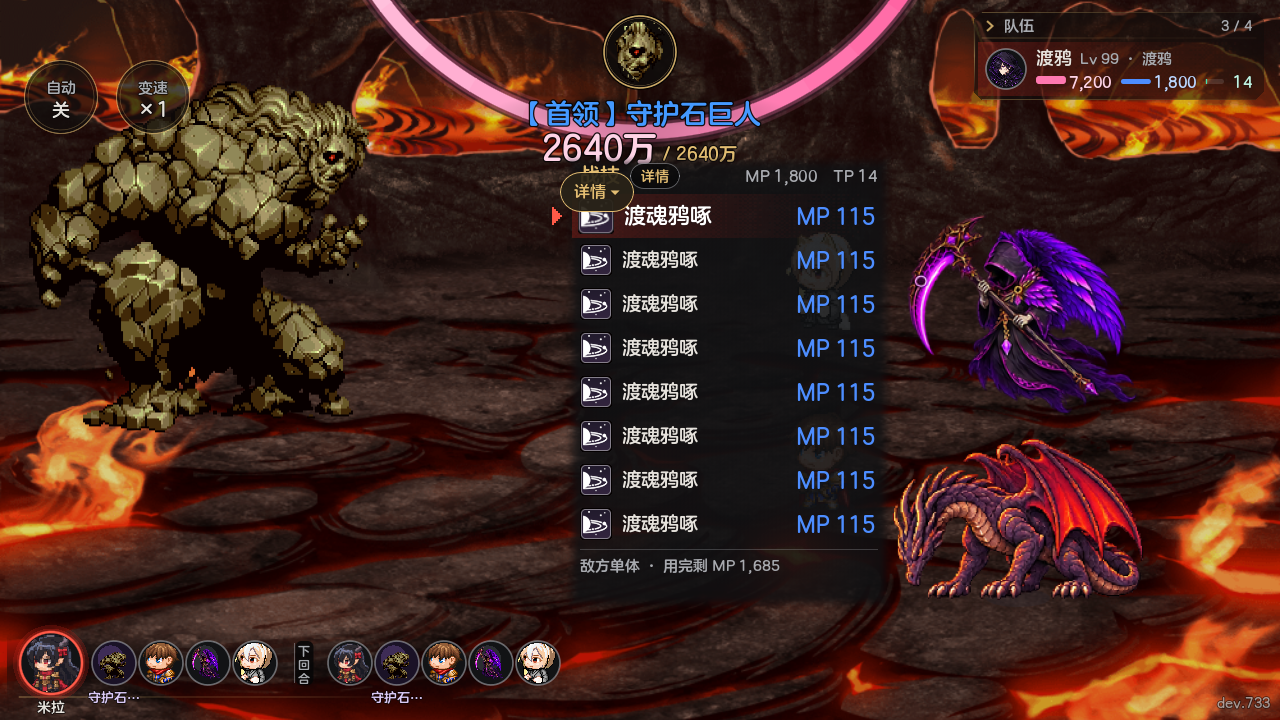
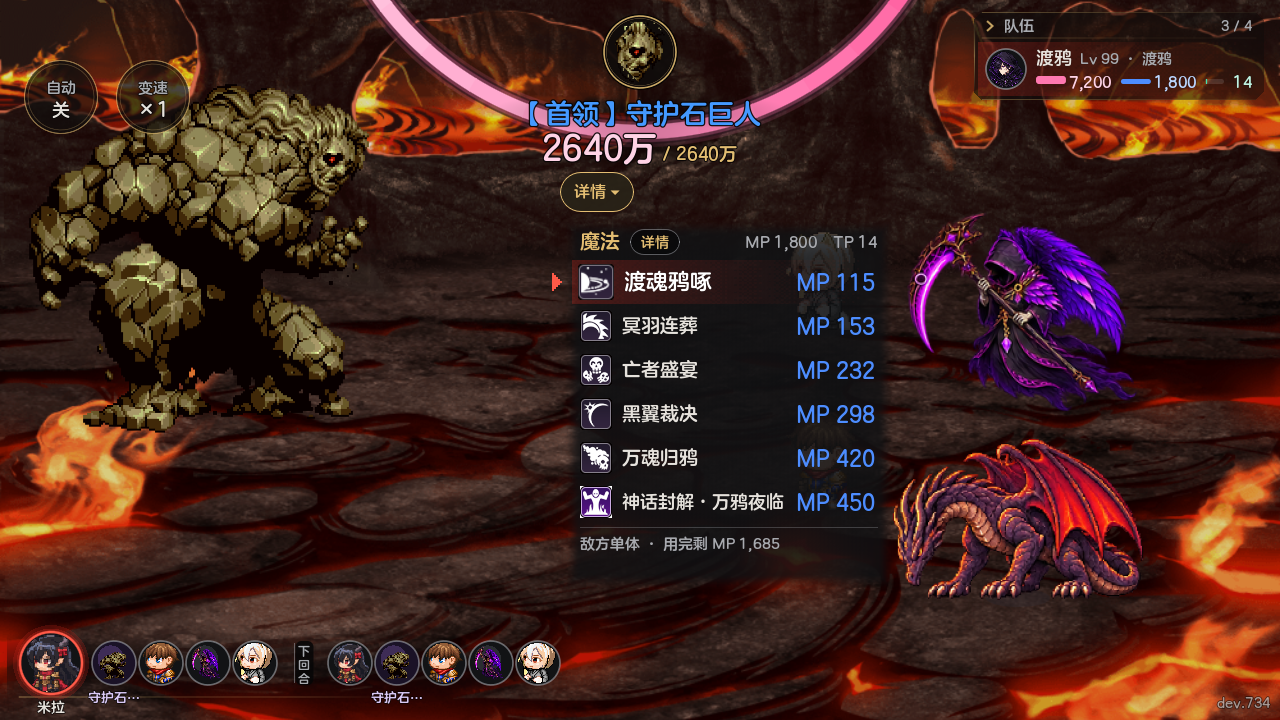
T208 预筛返工：列表让开首领信息区（放不下减行数滚动）；样张改真实技能表重截
执行者: cc
核查: 待审查

diff --git a/00_项目管理/交付/luiluu_t208.md b/00_项目管理/交付/luiluu_t208.md
@@ -8,14 +8,15 @@
 ## 2026-11-18 【cc·天启篇·未经审查】T208 大型变身行动时指令环与战技／物品列表让开身体＋头顶宝石逃跑时不再闪现（dev.待定）
 
 - Kyo 11-18「战斗中指令栏会挡住大型精灵」→「指令栏按A」。`battle_scene.gd` 新增 `make_room_for_big`（在 `_place_near_actor` 新界面那支最后调）：行动者外观键含 `XBattleLayout.BIG_FORM_KEYS` 且 `BIG_FORM_H` 大于普通身高时，指令环（各项＋上方「某某的行动」，加 6px 放大余量）或战技／物品列表若压到其身体可见框（脚底居中、`width()`×`height()`）：① 外侧＝整块左挪到右边离身体 8px（压左下行动顺序条就抬到条上方），指令环另要求不压队友、首领信息区、队伍面板；② 不行就放画面下方中间（贴底、横向居中，压行动顺序条往右让，再压身体就贴身体左边抬到条上方）。普通大小角色一步不挪。回退：`XBattleScene.BIG_MAKE_ROOM = false`。没碰 `battle_layout.gd`。
+- 协调预筛返工：P1-1 列表往左挪后表头被首领信息区「详情」胶囊盖住——列表（外侧、下方中间两档）都要让开首领信息区：顶边压到它下沿以下 8px，底边再碰行动顺序条／画面底就减行数滚动（`XSkinBattleSkillList.fit_rows`，选中行保持可见）。P2-1 样张假数据——专项改用真实技能表（照指令环上技能类指令过滤，取技能最多那类，标题＝指令名），渡鸦满进阶学全真实技能（渡鸦那张标题是「魔法」，她的六招都在魔法类）；两张列表样张重截。P3（列表盖前排两个小队友）照协调不改。
 - 实测 4 人队（狗逍遥、里德、渡鸦神话、米拉黑龙）首领战、小怪战：两只大型变身的外侧都压前排队友，指令环都落到画面下方中间（x 573 起，避开行动顺序条）；只 2 人（狗逍遥＋米拉黑龙）时走外侧。列表走外侧（列表照原摆法本来就盖前排、首领信息区，只躲行动顺序条）。
 - T197 小A P2-2：`turn_marker.gd` 两个开关——`HOLD_WHILE_HIDING`：`set_target(null)` 后等 HIDE_DELAY 那段只许保持或变淡、不许淡入（逃跑成功关窗后不再闪出来，两次行动之间也不闪）；`HIDE_ON_MESSAGE`：战斗消息窗开着（逃跑失败两行等）当作挡住。回退：两个都设 false。
-- 新专项 `tests/xiyou_big_form_menu`（无头 86/86，窗口 90/90）：大型变身指令环、8 行列表不压身体、不出屏、不压行动顺序条；外侧时不压队友、下方中间时贴底；狗逍遥、里德指令环与列表位置跟开关关逐像素相等；开关关时龙身确实被压（咬得住）；触屏跟角色摆法同样不压；宝石菜单开淡出／关淡入照旧；P2-2 等淡出时峰值 ≤0.01、开关关会闪（>0.05，咬得住）；消息窗开着挡住、关掉回来。
+- 新专项 `tests/xiyou_big_form_menu`（无头 102/102，窗口 106/106）：大型变身指令环、真实技能列表不压身体、不出屏、不压行动顺序条，列表不压首领信息区、减行数后选中行可见；外侧时不压队友、下方中间时贴底；狗逍遥、里德指令环与列表位置跟开关关逐像素相等；开关关时龙身确实被压（咬得住）；触屏跟角色摆法同样不压；宝石菜单开淡出／关淡入照旧；P2-2 等淡出时峰值 ≤0.01、开关关会闪（>0.05，咬得住）；消息窗开着挡住、关掉回来。
 - 玩家可见：米拉黑龙、渡鸦神话行动时，指令菜单和技能列表不再盖住它们的身体（挪到旁边或画面下方中间）；逃跑时角色头顶的红宝石不再闪一下。
 
 ## 交接板
 
-- 下一步：协调把附图两张（`luiluu_t208附图/T208_首领战_米拉黑龙行动_指令环.png`、`…渡鸦神话行动_指令环.png`，1280×720 原尺寸）给 Kyo 审样；另两张战技列表展开图供参考。
+- 下一步：（列表两张已按预筛 P1-1、P2-1 重截）协调把附图两张（`luiluu_t208附图/T208_首领战_米拉黑龙行动_指令环.png`、`…渡鸦神话行动_指令环.png`，1280×720 原尺寸）给 Kyo 审样；另两张战技列表展开图供参考。
 - 用户试玩说明：天启篇米拉黑龙／渡鸦神话变身后轮到它行动，看指令环是不是不再压身体。
 - 需要用户决定：无（4 人满队时两只大型变身的指令环都落到下方中间，是 Kyo 选 A 时说的兜底；若觉得应该优先别的位置再提）。
 
@@ -35,8 +36,10 @@
 
 - `并行测试.py`（合 main 后）：xiyou_big_form_menu、xiyou_battle_actor_size、xiyou_ring_seven_battle、xiyou_party_fold、xiyou_ui_skin_battle、xiyou_ui_skin_battle_v07、xiyou_ui_skin_4a、xiyou_ui_skin_close、xiyou_tianqi_swap_view、xiyou_determinism、xiyou_battle_ui、xiyou_battle_layout、xiyou_flow、xiyou_mira_art、xiyou_raven_fx、xiyou_game_over、xiyou_hangup_stop、xiyou_big_form_sizes、xiyou_ui_sel_scale：19/19 通过。
 - 选测.py 列出 154 个场景（battle_scene.gd 被广泛引用，含事件对照、楼层），车道只跑了上面与战斗界面相关的 19 个；其余留总装按影响面选测。
+- 返工后：xiyou_big_form_menu、xiyou_ui_skin_battle、xiyou_ui_skin_battle_v07、xiyou_ui_skin_4a、xiyou_ui_skin_close、xiyou_ui_sel_scale、xiyou_item_list、xiyou_battle_ui、xiyou_battle_actor_size、xiyou_ring_seven_battle、xiyou_determinism、xiyou_tusu_ui、xiyou_guyu_ui：13/13 通过。
 - 语法检查通过；工具回归通过。
 
 ## 本分支提交
 
 - e09b7cffc T208 代码与专项
+- （本次）预筛 P1-1 列表让开首领信息区＋减行数、P2-1 真实技能样张重截
